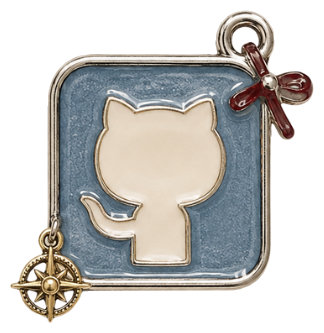
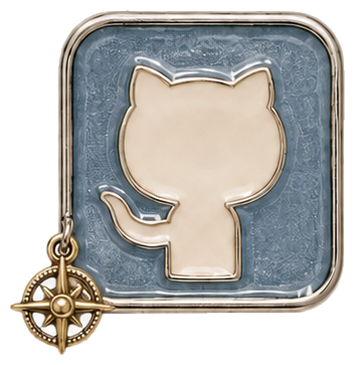
Swap LinkedIn, GitHub, Instagram charms for new versions
New charm art (bow+star LinkedIn, compass GitHub, moon Instagram) cut
from solid backgrounds; boxes re-derived from measured body fractions so
the row stays visually even and spans the photo margins.

Claude-Session: https://claude.ai/code/session_01HwHnB6ZvdvjAvLg4jAqUHh

diff --git a/index.html b/index.html
@@ -129,9 +129,9 @@ const LAYOUT = {
   /* charm boxes sized so the icon BODIES render equal — each PNG carries a
      different amount of clasp/dangle around the body */
   "soc-mail":       {x: 533, y: 701, w:  69, h:  54, r: -3, href: "mailto:aashvi.geddam@gmail.com"},
-  "soc-li":         {x: 626, y: 693, w:  68, h:  70, r:  2, href: "https://www.linkedin.com/in/aashvi-geddam"},
-  "soc-gh":         {x: 707, y: 690, w:  73, h:  75, r: -2, href: "https://github.com/aashvigeddam"},
-  "soc-ig":         {x: 797, y: 693, w:  70, h:  69, r:  3, href: "https://www.instagram.com/aashvigeddam/"},
+  "soc-li":         {x: 634, y: 700, w:  57, h:  54, r:  2, href: "https://www.linkedin.com/in/aashvi-geddam"},
+  "soc-gh":         {x: 716, y: 703, w:  54, h:  56, r: -2, href: "https://github.com/aashvigeddam"},
+  "soc-ig":         {x: 805, y: 704, w:  58, h:  49, r:  3, href: "https://www.instagram.com/aashvigeddam/"},
 };
 
 const ASSETS = {
